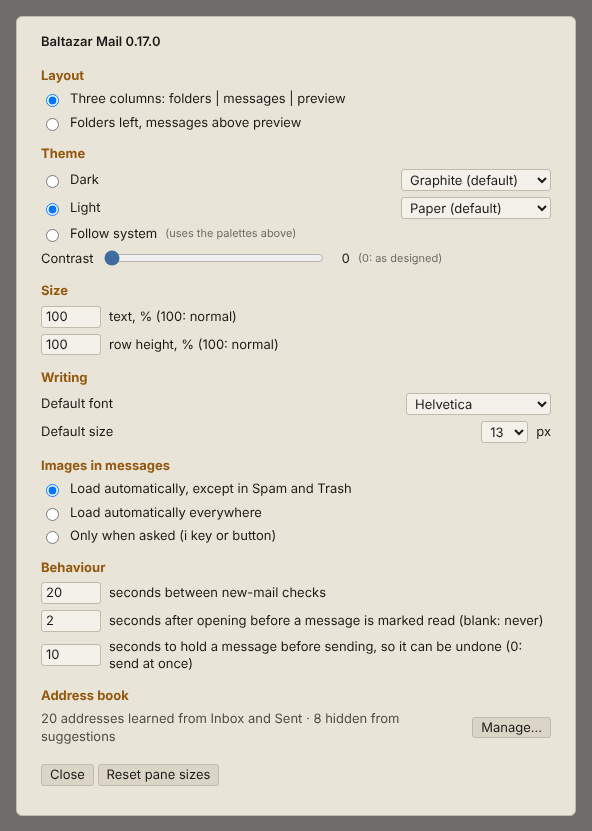
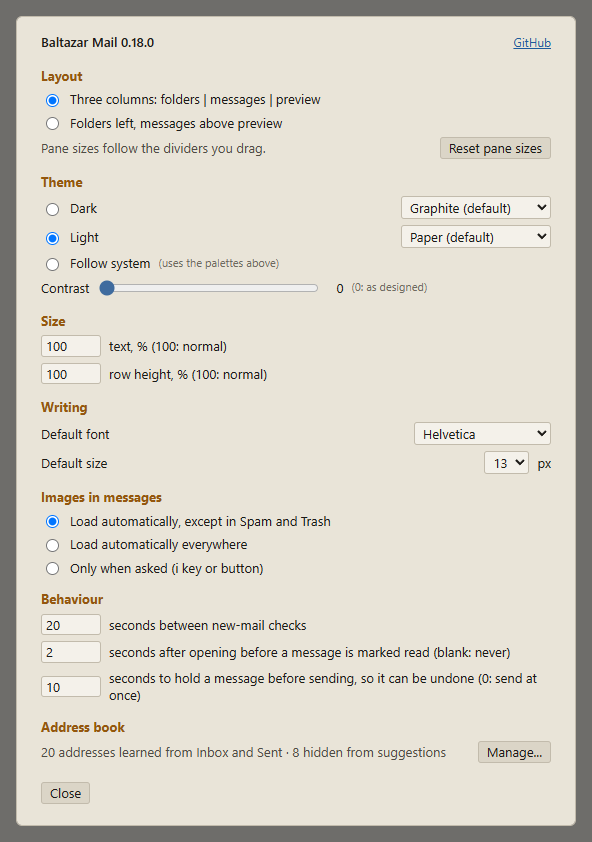
Put Reset pane sizes under Layout and link Settings to the project on GitHub
The reset belongs with the layout choices it undoes, not beside Close. The link goes to the repository home page, the hub for releases, issues and the privacy and security notes; the repository path is now a single constant that the release check and both links derive from.

diff --git a/ext/mail.html b/ext/mail.html
@@ -135,10 +135,11 @@
 <div id="settings" class="hidden">
   <div id="settings-box">
    <div id="settings-main">
-    <div id="app-version"></div>
+    <div id="app-head"><span id="app-version"></span><a id="app-repo" target="_blank" rel="noopener" title="This project on GitHub: source, releases, issues">GitHub</a></div>
     <b>Layout</b>
     <label><input type="radio" name="layout" value="vertical"> Three columns: folders | messages | preview</label>
     <label><input type="radio" name="layout" value="horizontal"> Folders left, messages above preview</label>
+    <div class="set-row"><span>Pane sizes follow the dividers you drag.</span><button id="settings-reset">Reset pane sizes</button></div>
     <b>Theme</b>
     <div class="theme-row"><label><input type="radio" name="theme" value="dark"> Dark</label><select id="darkTheme" title="Palette used in dark mode" aria-label="Dark palette"></select></div>
     <div class="theme-row"><label><input type="radio" name="theme" value="light"> Light</label><select id="lightTheme" title="Palette used in light mode" aria-label="Light palette"></select></div>
@@ -159,9 +160,9 @@
     <label><input type="number" id="markread" min="0" max="60" step="1" style="width:60px"> seconds after opening before a message is marked read (blank: never)</label>
     <label><input type="number" id="undosend" min="0" max="60" step="1" style="width:60px"> seconds to hold a message before sending, so it can be undone (0: send at once)</label>
     <b>Address book</b>
-    <div class="ab-row"><span id="ab-summary">Learned from your Inbox and Sent headers.</span><button id="ab-open">Manage...</button></div>
+    <div class="set-row"><span id="ab-summary">Learned from your Inbox and Sent headers.</span><button id="ab-open">Manage...</button></div>
     <p id="update-note" class="hidden"></p>
-    <p><button id="settings-close">Close</button> <button id="settings-reset">Reset pane sizes</button></p>
+    <p><button id="settings-close">Close</button></p>
    </div>
    <div id="settings-ab" class="hidden">
     <div class="ab-head"><button id="ab-back" title="Back to Settings (Esc)">‹ Settings</button><b>Address book</b><span></span></div>

diff --git a/ext/mail.css b/ext/mail.css
@@ -31,7 +31,9 @@ body.dragging iframe { pointer-events: none; }
 #gear { padding: 0 5px; position: relative; display: inline-flex; align-items: center; color: var(--accent); }
 #gear svg { width: 16px; height: 16px; }
 #gear.has-update::after { content: ""; position: absolute; top: 2px; right: 1px; width: 7px; height: 7px; border-radius: 50%; background: var(--accent); }
-#app-version { font-weight: 600; margin-bottom: 2px; }
+#app-head { display: flex; align-items: baseline; gap: 12px; margin-bottom: 2px; }
+#app-version { font-weight: 600; flex: 1; }
+#app-repo { font-size: 12px; }
 #update-note { margin: 10px 0 0; padding: 6px 8px; border-left: 3px solid var(--accent); }
 /* Modal overlays sit above every popover (search help, cards, menus, suggestions). */
 #settings { position: fixed; inset: 0; z-index: 80; background: rgba(0,0,0,.55); display: flex; align-items: center; justify-content: center; }
@@ -257,8 +259,9 @@ body.dragging iframe { pointer-events: none; }
 #settings-main.hidden, #settings-ab.hidden { display: none; }
 #settings-ab { animation: ab-in .14s ease-out; }
 @keyframes ab-in { from { opacity: 0; transform: translateX(16px); } to { opacity: 1; transform: none; } }
-.ab-row { display: flex; align-items: center; gap: 10px; }
-.ab-row span { flex: 1; color: var(--fg2); }
+/* A sentence with its button at the right, in Settings */
+.set-row { display: flex; align-items: center; gap: 10px; }
+.set-row span { flex: 1; color: var(--fg2); }
 .ab-head { display: grid; grid-template-columns: 1fr auto 1fr; align-items: center; margin-bottom: 4px; }
 .ab-head b { margin: 0 !important; }
 #ab-back { justify-self: start; background: none; border: 0; color: var(--accent); cursor: pointer; padding: 2px 0; font: inherit; }

diff --git a/ext/update.js b/ext/update.js
@@ -2,8 +2,10 @@
 // Settings can say when an update is available. No cookies and nothing about the user or the
 // mailbox is sent; the answer is only compared with the installed version. Nothing is downloaded.
 
-const LATEST = "https://api.github.com/repos/gdevic/baltazar-mail/releases/latest";
-export const RELEASES = "https://github.com/gdevic/baltazar-mail/releases/latest";
+const REPO_PATH = "gdevic/baltazar-mail";
+export const REPO = `https://github.com/${REPO_PATH}`;
+export const RELEASES = `${REPO}/releases/latest`;
+const LATEST = `https://api.github.com/repos/${REPO_PATH}/releases/latest`;
 const DAY = 86400e3, RETRY = 3600e3;
 const TAG = /^v(\d{1,4})\.(\d{1,4})\.(\d{1,4})$/;
 

diff --git a/ext/mail.js b/ext/mail.js
@@ -2253,6 +2253,7 @@ async function poll() {
 async function checkUpdate() {
   const have = chrome.runtime.getManifest().version, note = $("update-note");
   $("app-version").textContent = `Baltazar Mail ${have}`;
+  $("app-repo").href = update.REPO;
   if (!await loadedFromZip()) return;
   const v = await update.latest().catch(() => null);
   const avail = !!v && update.newer(v, have);
